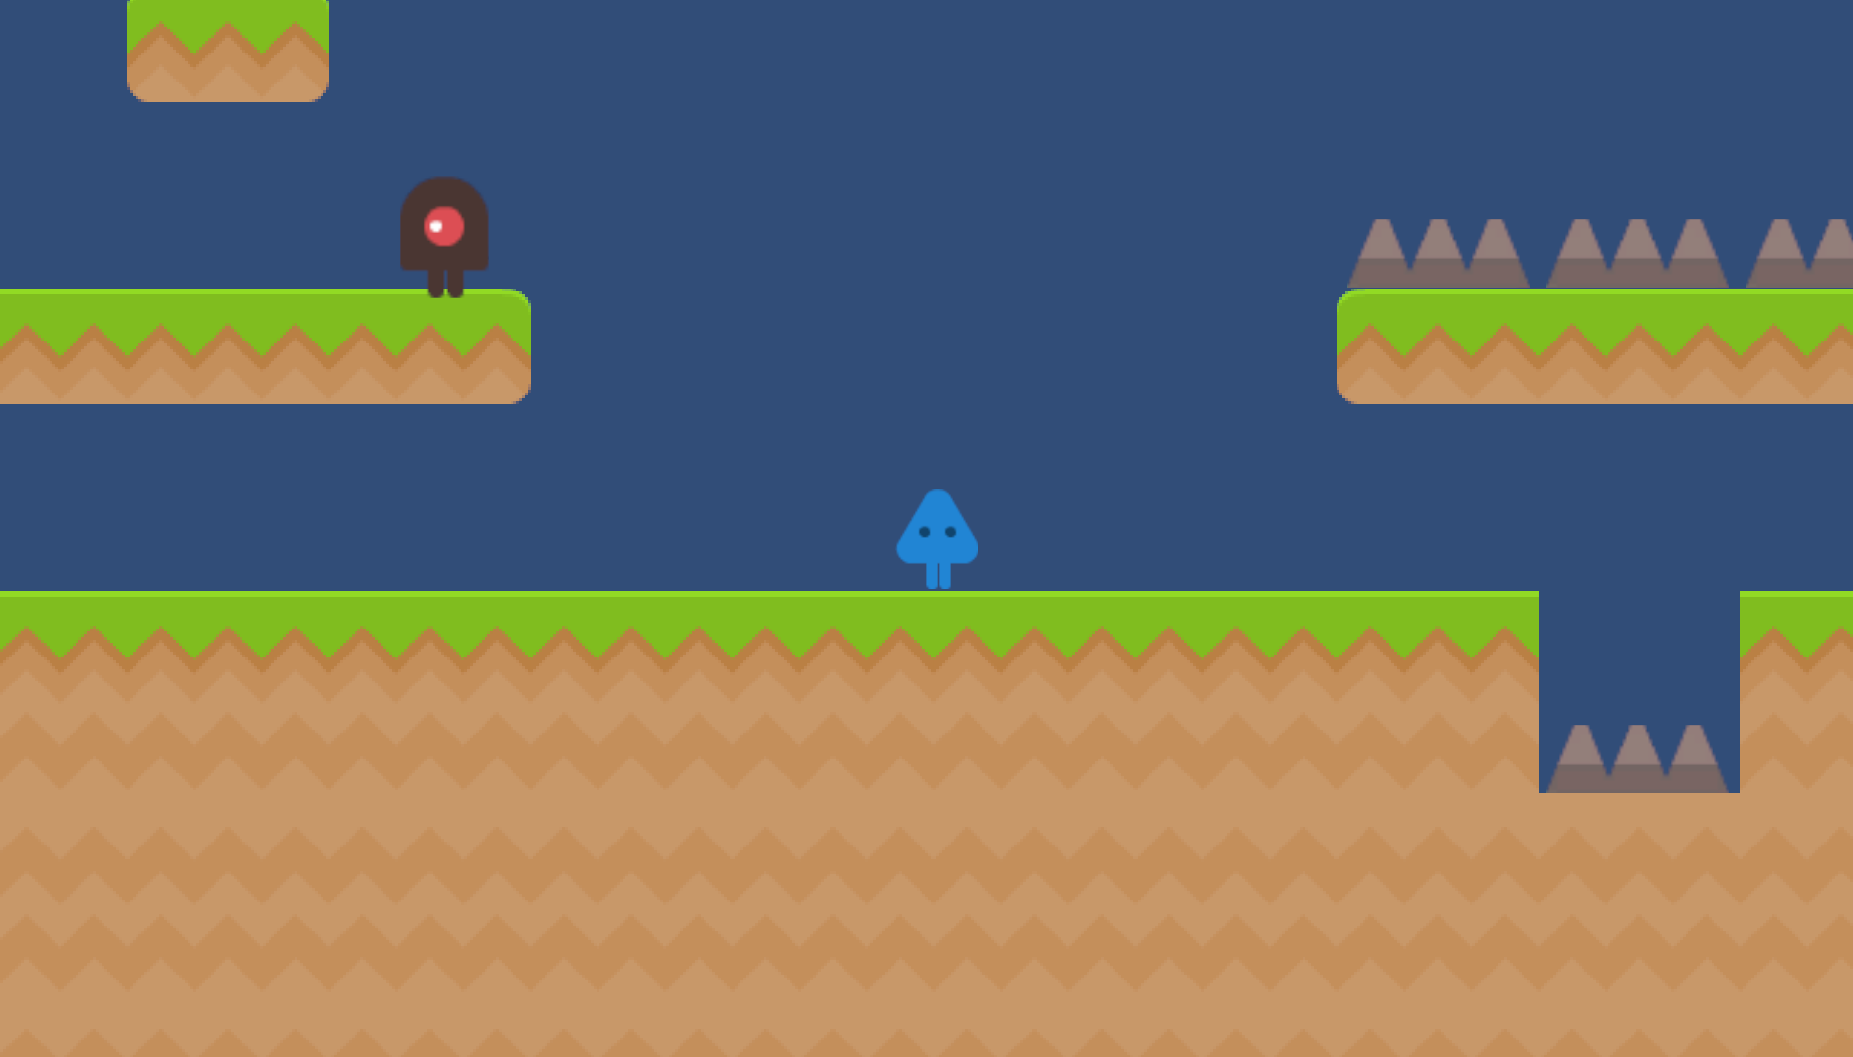
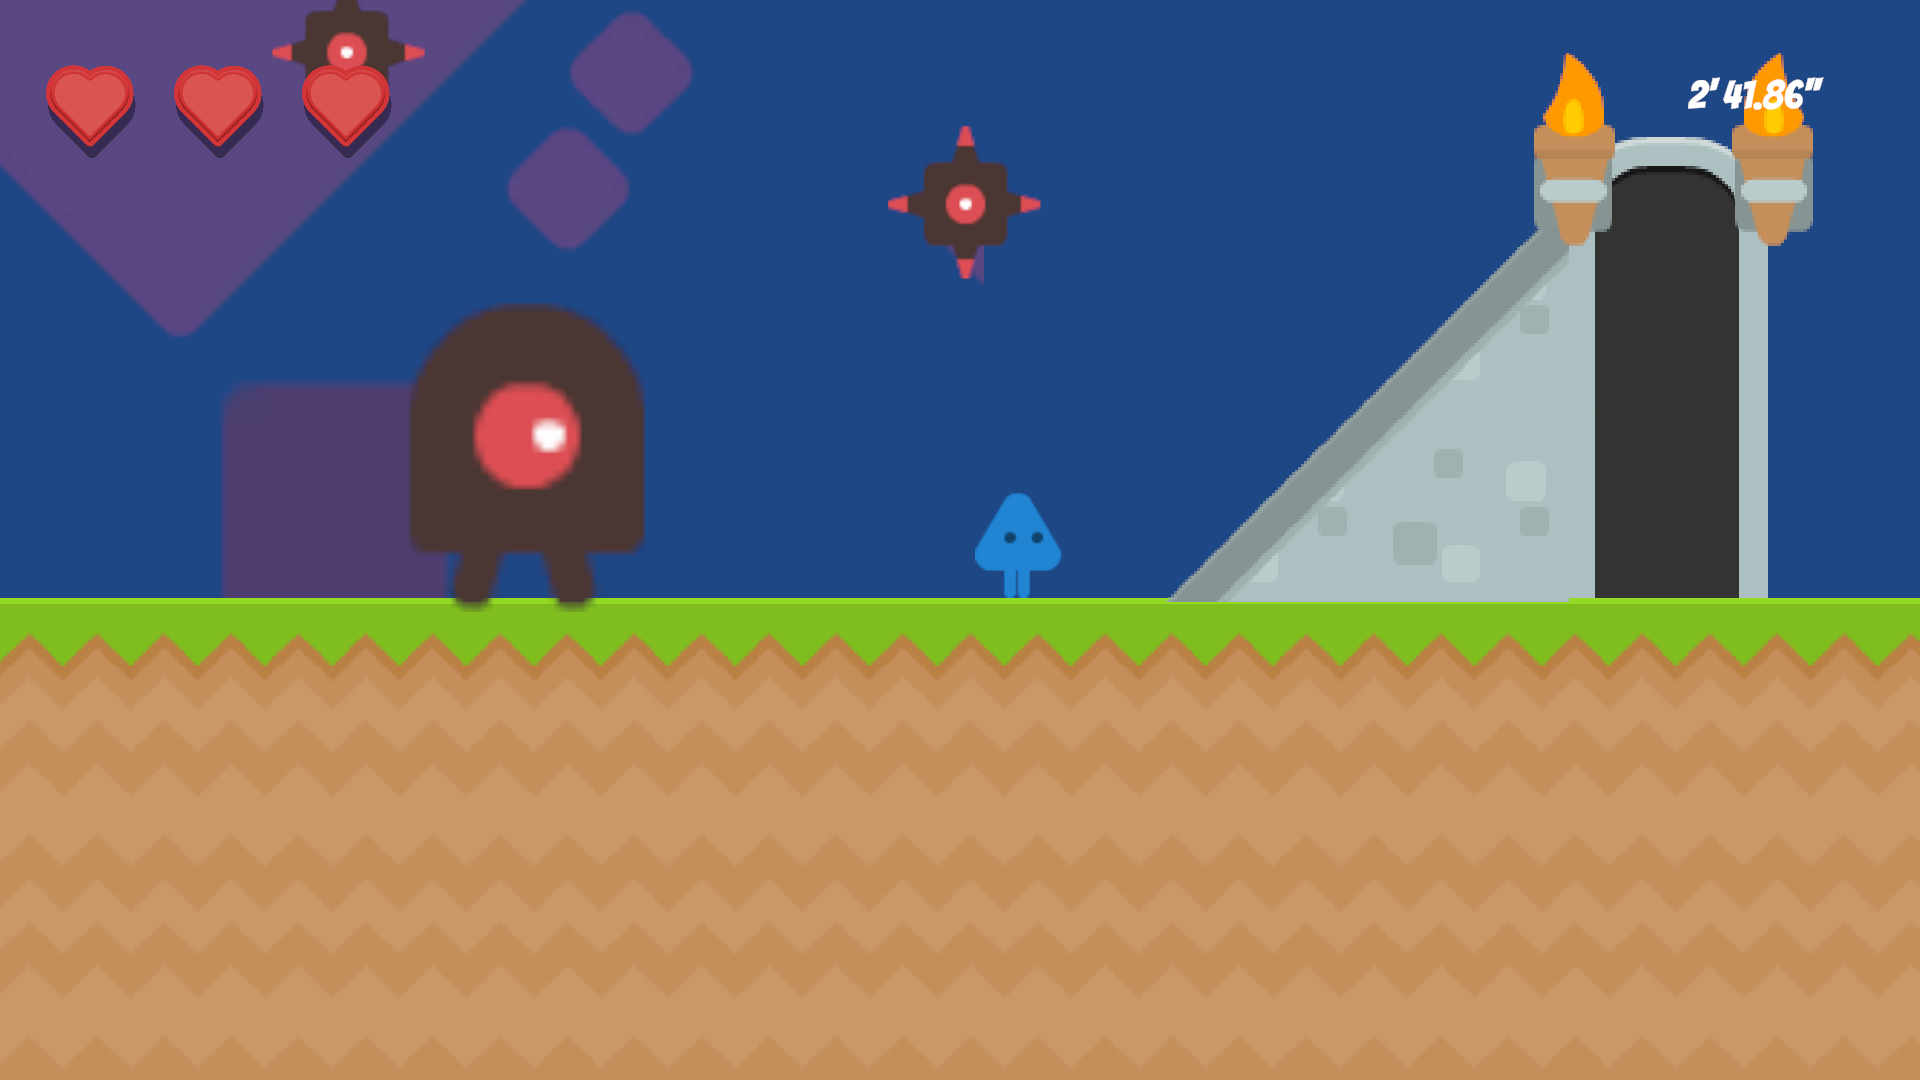
css stuff

Changed region(s): [[0.0, 0.0, 1.0, 0.7493], [0.4614, 0.1249, 0.5537, 0.2498]]

diff --git a/assets/js/projects.js b/assets/js/projects.js
@@ -69,7 +69,9 @@ const allProjects = [
 
 
         tags: ["C#", "Unity 2D", "Web"],
-        numberOfImages: 2,
+        numberOfImages: 3,
+        gif: "ssp-menu.gif",
+        gifIsFirst: true,
         repoLink: "https://gitlab.com/aruizgarcia14/pec2_platformergame_alvaroruiz",
         windowsLink: "https://drive.google.com/drive/folders/1lbniG5F2ZeoO-HrxS_lg2mOPlM_nEJCL?usp=sharing",
         webLink: "https://play.unity.com/es/user/98453246-b7ce-49c5-ab6b-c4f3c5546cb9",
@@ -389,7 +391,12 @@ function createProjectCard(project, template, container) {
     // Añadir imagenes
     let image = clone.querySelector('img');
     // En la pagina inicial, solo cargamos la primera imagen
-    image.src = "assets/img/projects/" + project.key + "/01.png";
+    if (project.gif && project.gifIsFirst) {
+        image.src = "assets/img/projects/" + project.key + "/" + project.gif;
+    }
+    else {
+        image.src = "assets/img/projects/" + project.key + "/01.png";
+    }
 
     // Inyectamos en el DOM
     container.appendChild(clone);

diff --git a/assets/css/skills.css b/assets/css/skills.css
@@ -7,6 +7,14 @@
     position: relative;
 }
 
+@media (max-width: 700px) {
+    #skill-tabs .nav-link {
+        padding: 10px;
+        min-height: 1px;
+    }
+}
+
+
 .line-separator {
 
     border: none;
@@ -56,13 +64,14 @@
             inset 0 0 50px 10px var(--background-color),
                 /* Sombra Superior (empujada hacia abajo) */
             inset 0 50px 60px -10px var(--background-color),
+
                 /* Sombra Inferior (empujada hacia arriba) */
             inset 0 -50px 60px -10px var(--background-color);
 
     background: radial-gradient(
             circle at center,
-            transparent 40%,
-            var(--background-color) 95%
+            transparent 50%,
+            var(--background-color) 100%
     );
 }
 

diff --git a/index.html b/index.html
@@ -206,7 +206,7 @@
     <!-- Otros roles section-->
     <section id="skill-tabs" class="features-tabs section">
       <div class="container" data-aos="fade-up" data-aos-delay="100">
-        <hr class = "line-separator" data-aos="grow-left">
+        <hr class = "line-separator" data-aos="grow-left" data-aos-delay="100">
 
         <h4 data-lang-key="Iamalso"></h4>
         <br>
